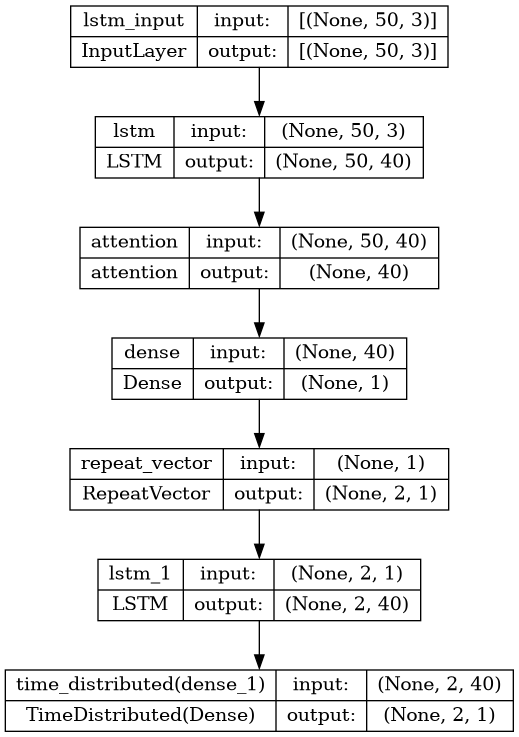
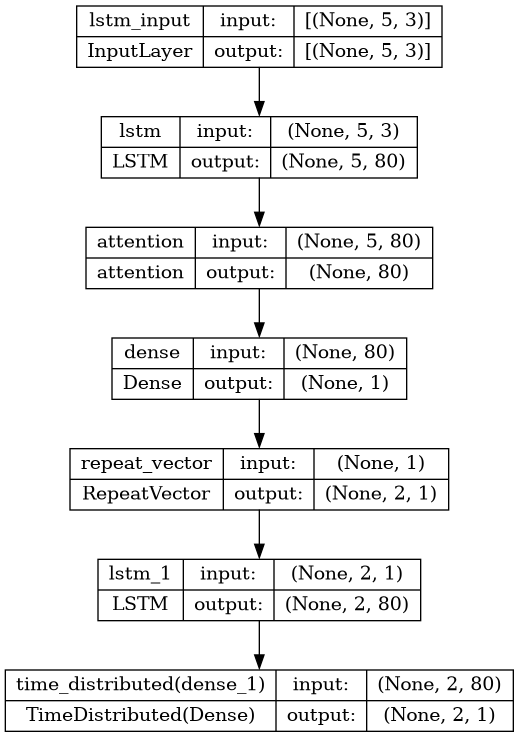
feat: added networks for forecasting

diff --git a/src/main_forecasting.py b/src/main_forecasting.py
@@ -1,0 +1,166 @@
+import numpy as np
+import pandas as pd
+from tensorflow import keras
+from keras import layers
+from sklearn.model_selection import train_test_split
+import datetime
+import os
+import json
+import mlflow
+import mlflow.keras
+from mlflow.tracking import MlflowClient
+import tensorflow as tf
+from bilstm import BiLSTMModel
+from lstm import LSTMModel
+from lstm_attention import LSTMAttModel
+from rnn_attention import RNNAttModel
+from rnn import RNNModel
+from keras.utils.vis_utils import plot_model
+from sklearn.metrics import accuracy_score, precision_score, recall_score
+
+
+# Constants
+DATA_PATH = "data/preprocessed"
+CONFIG_PATH = "src/train_params.json"
+
+with open(CONFIG_PATH, "r") as f:
+    config = json.load(f)
+
+
+def get_XY(durations, tactus, joint, time_steps):
+    for tid in range(1, len(tactus)):
+        durations[tid] = durations[tid] - durations[tid-1]
+    j = [np.arange(0, x+1) for x in np.arange(len(durations))[:(time_steps-1)]]
+    k = [np.arange(x, x + time_steps) for x in np.arange(len(durations))[:-(time_steps)]]
+
+    X = []
+    for i, arr in enumerate(j + k):
+        arr2 = np.vstack([durations[arr], tactus[arr], joint[arr]]).T
+        arr2 = np.pad(arr2, ((time_steps-len(arr), 0), (0,0)))
+        X.append(arr2)
+    
+    X = np.array(X)
+    Y_ind = np.arange(1, len(durations))
+    Y = np.vstack((tactus[Y_ind], joint[Y_ind])).T
+    Y = Y.reshape(-1, 2, 1)
+
+    return X, Y
+
+
+def get_dataX(filenames):
+    X = np.array([])
+    Y = np.array([])
+    for filename in filenames:
+        df = pd.read_csv(os.path.join(DATA_PATH, filename))
+        x, y = get_XY(np.array(df.duration), np.array(df.tactus), np.array(df.joint), config.get("time_steps", 10))
+        if len(X) < 1:
+            X = x
+            Y = y
+        else:
+            X = np.concatenate((X, x))
+            Y = np.concatenate((Y, y))
+    return X, Y
+
+
+def get_dataY(filenames):
+    X = []
+    Y = []
+    for filename in filenames:
+        df = pd.read_csv(os.path.join(DATA_PATH, filename))
+        xpad = np.zeros((config.get("time_steps"), 3))
+        ypad = np.zeros((config.get("time_steps"), 2)).reshape(-1, 2, 1)
+        x = df.to_numpy()[:,2:]
+        y = df.to_numpy()[:,3:]
+        X_full  = np.concatenate((xpad, x))
+        X.append(X_full)
+        Y.append(y)
+    return X, Y
+
+
+def calc_metrics(xtrue1, xtrue2, xpred1, xpred2):
+    acc1 = accuracy_score(xtrue1, xpred1)
+    acc2 = accuracy_score(xtrue2, xpred2)
+
+    prec1 = precision_score(xtrue1, xpred1)
+    prec2 = precision_score(xtrue2, xpred2)
+
+    recall1 = recall_score(xtrue1, xpred1)
+    recall2 = recall_score(xtrue2, xpred2)
+
+    return acc1, acc2, prec1, prec2, recall1, recall2
+
+
+
+model = LSTMModel()
+model.build(input_shape=(1, config.get("time_steps", 10), 3))
+plot_model(model.model, to_file=f"resources/{model.model_name.lower()}_structure.png", show_shapes=True, show_layer_names=True)
+
+with mlflow.start_run() as run:
+    run_id = run.info.run_id
+
+    filenames = [f for f in os.listdir(DATA_PATH) if os.path.isfile(os.path.join(DATA_PATH, f))]
+    filenames_train, filenames_test = train_test_split(filenames, test_size=0.1, random_state=42)
+    trainX, trainY = get_dataX(filenames_train)
+    testX, testY = get_dataY(filenames_test)
+
+    mlflow.log_param("epochs", config.get("epochs"))
+    mlflow.log_param("batch_size", config.get("batch_size"))
+    mlflow.log_param("time_steps", config.get("time_steps"))
+    mlflow.log_param("hidden_lstm", config.get("hidden_lstm"))
+    mlflow.log_param("model_name", model.model_name)
+
+    # Tensorboard logs dir
+    log_dir = "logs/fit/many2many_simple" + datetime.datetime.now().strftime("%Y%m%d-%H%M%S")
+    tensorboard_callback = keras.callbacks.TensorBoard(log_dir=log_dir, histogram_freq=1)
+    
+    opt = keras.optimizers.Adam(config.get("learning_rate"), 1e-3)
+    model.compile(optimizer=opt, loss='mse', metrics=[keras.metrics.RootMeanSquaredError(), "mean_absolute_error"])
+    mlflow.tensorflow.autolog()
+    history = model.fit(trainX, trainY, 
+                        epochs=config.get("epochs", 10), 
+                        validation_split=0.2, 
+                        batch_size=config.get("batch_size", 5), 
+                        verbose=1, 
+                        callbacks=[tensorboard_callback])
+
+    # Prediction
+    accuracies1 = []
+    accuracies2 = []
+    for index, testsong in enumerate(testX):
+        predicted_song = []
+        x_test = testsong[:config.get("time_steps")]
+        for i in range(config.get("time_steps"), len(testsong)):
+            x_test = np.asarray(x_test).astype('float32').reshape(-1, config.get("time_steps"), 3)
+            predicted = model.predict(x_test, verbose=0).round()
+            next_time = testsong[i][0]
+            x_next_predicted = np.concatenate((np.array(next_time).reshape(-1), predicted.reshape(-1)))
+            predicted_song.append(list(x_next_predicted[1:]))
+            x_test = np.concatenate((x_test[:, 1:].reshape(-1,3), x_next_predicted.reshape(-1,3))).reshape(1, -1, 3)
+
+        # Metrics
+        true1 = list(testY[index][:,0])
+        true2 = list(testY[index][:,1])
+
+        pred1 = np.array(predicted_song)[:,0]
+        pred2 = np.array(predicted_song)[:,1]
+
+        acc1, acc2, prec1, prec2, recall1, recall2 = calc_metrics(true1, true2, pred1, pred2)
+
+        print(f"Accracy 1: {acc1}")
+        print(f"Accuracy 2: {acc2}")
+        print(f"Precision 1: {prec1}")
+        print(f"Precision 2: {prec2}")
+        print(f"Recall 1: {recall1}")
+        print(f"Recall 2: {recall2}")
+
+        accuracies1.append(acc1)
+        accuracies2.append(acc2)
+        break
+
+
+# Final acc:
+print("-----------------------------------")
+print(f"Mean accuracy1 = {np.mean(accuracies1)}")
+print(f"Mean accuracy2 = {np.mean(accuracies2)}")
+            
+
